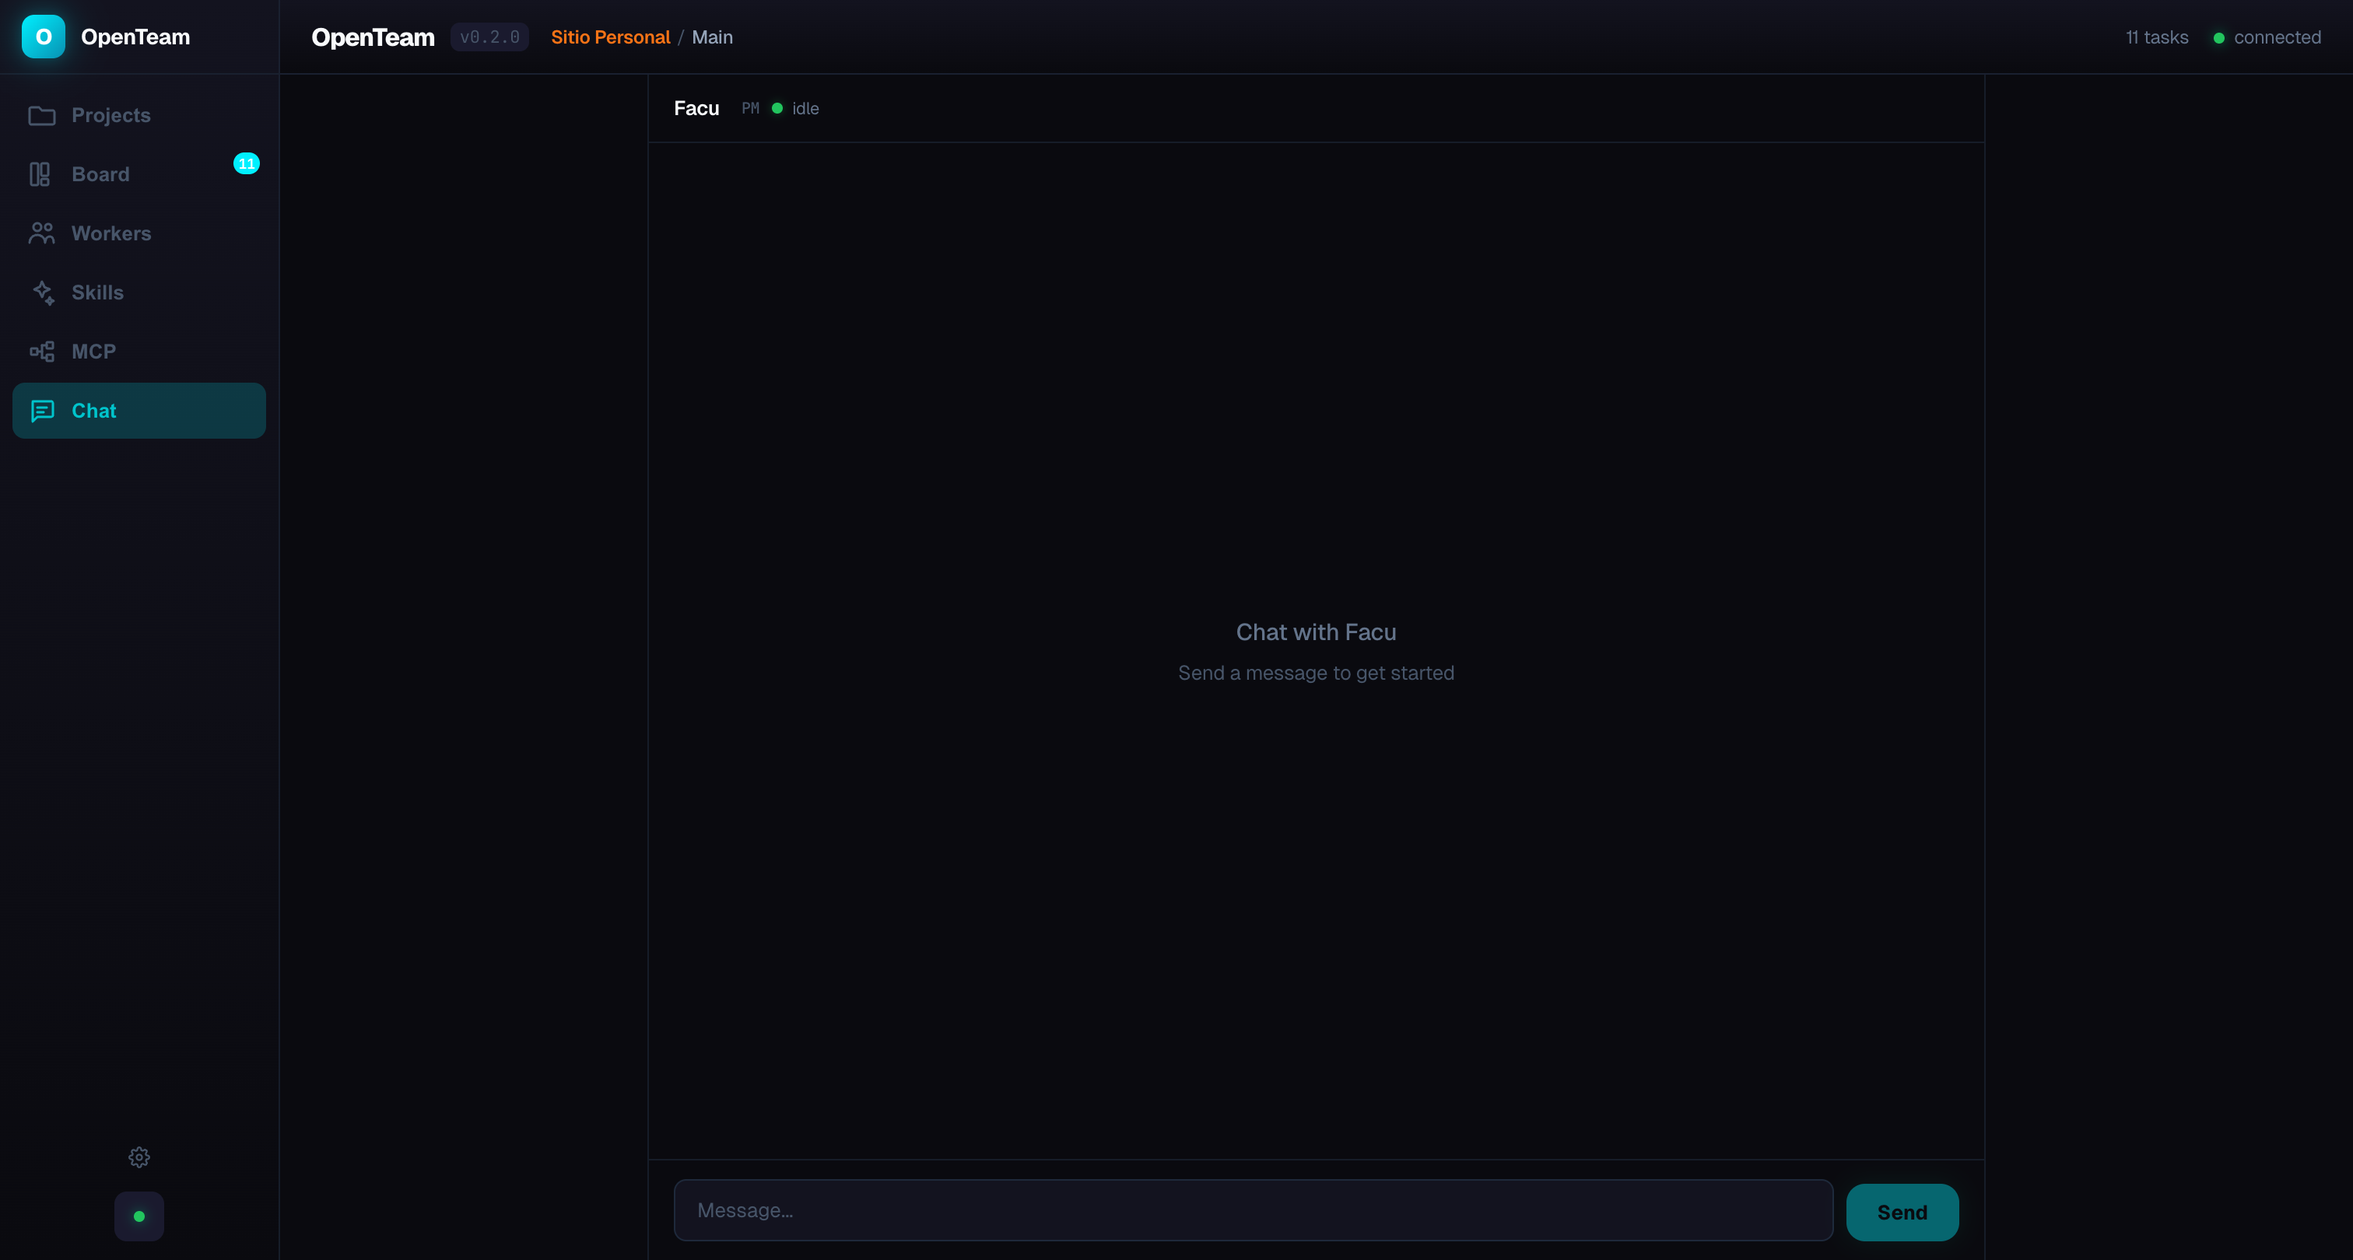
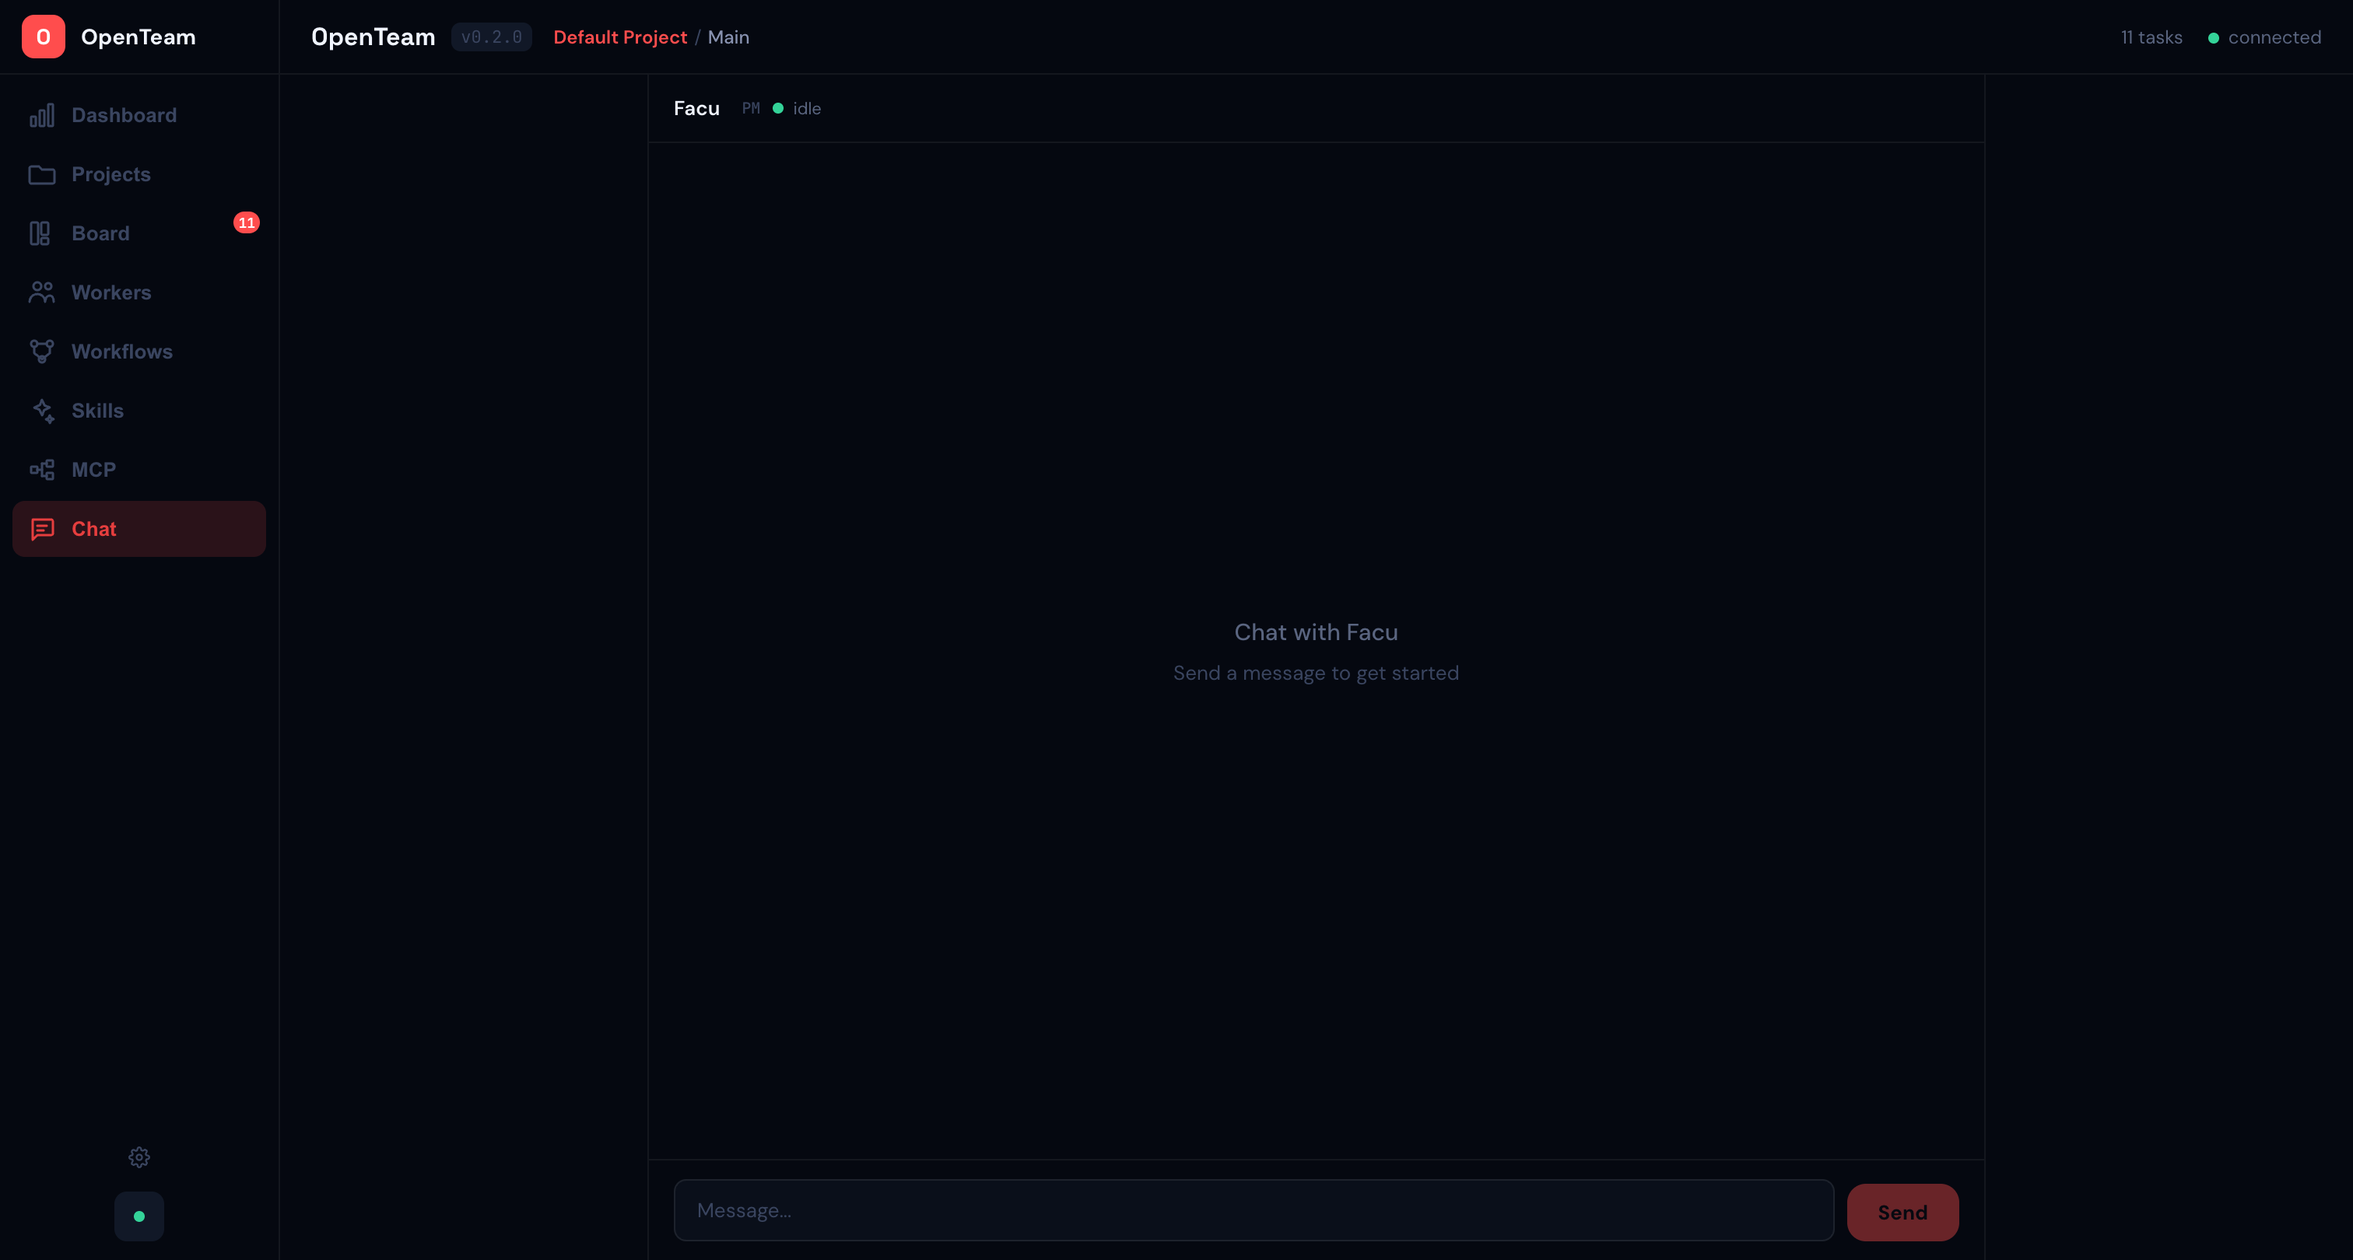
docs: complete README rewrite + new screenshots for v0.2.0
Full documentation covering all features implemented in this session:
dashboard, workflows, validation gates, model tiers, agent memory,
ADRs, context compaction, session checkpoints, skill matrix, health
checker, performance analytics, and MCP quick add.

7 new screenshots: dashboard, board, workers, workflows, skills,
mcp, chat. All with MyClaw-inspired coral-red accent design.

API reference table with 20+ endpoints. Architecture diagram
updated with TierEngine, CompactionEngine, and full core module list.
Configuration tables split into global vs per-workspace.

diff --git a/README.md b/README.md
@@ -14,9 +14,9 @@
   <a href="#features">Features</a> &bull;
   <a href="#architecture">Architecture</a> &bull;
   <a href="#the-team">The Team</a> &bull;
+  <a href="#workflows">Workflows</a> &bull;
   <a href="#configuration">Configuration</a> &bull;
-  <a href="#cli">CLI</a> &bull;
-  <a href="#desktop-app">Desktop App</a>
+  <a href="#cli">CLI</a>
 </p>
 
 ---
@@ -55,13 +55,21 @@ Open **http://localhost:4200** and start chatting with Facu.
 
 ## Features
 
+### Dashboard
+
+Unified view of your team's performance: success rate, total tasks, active workflows, token usage, agent performance table, validation gate health, and system doctor checks — all in one screen.
+
+<p align="center">
+  <img src="screenshots/dashboard.png" alt="Dashboard" width="90%" />
+</p>
+
 ### Project & Workspace Hierarchy
 
-Organize your work as **Projects** (one per client or product) containing multiple **Workspaces** (one per area: API, Frontend, SIEM). Each workspace is fully isolated — its own database, team, skills, MCP servers, and chat history. Switch between workspaces at runtime without restarting the server.
+Organize your work as **Projects** (one per client or product) containing multiple **Workspaces** (one per area: API, Frontend, SIEM). Each workspace is fully isolated — its own database, team, MCP servers, and chat history. Switch between workspaces at runtime without restarting the server.
 
-### Kanban Board with Live Dashboard
+### Kanban Board
 
-Full-width kanban with drag & drop, search, and filters. Tasks update in real-time as workers complete them.
+Full-width kanban with drag & drop, search, filters, and stats bar. Tasks update in real-time as workers complete them. Token tracking per task.
 
 <p align="center">
   <img src="screenshots/board.png" alt="Board" width="90%" />
@@ -69,27 +77,31 @@ Full-width kanban with drag & drop, search, and filters. Tasks update in real-ti
 
 ### AI Agent Team
 
-Build your team from a catalog of 12 specialized roles. Each agent gets a unique avatar (DiceBear), an editable name, and an independent AI provider toggle. Mix Claude and Kimi in the same team for cross-model verification.
+Build your team from a catalog of 13 specialized roles. Each agent gets a unique avatar (DiceBear), an editable name, an independent AI provider toggle, and a **model tier** (Economy/Fast/Standard/Quality/Premium) that controls cost vs quality routing.
 
 <p align="center">
   <img src="screenshots/workers.png" alt="Workers" width="90%" />
 </p>
 
-Double-click any name to edit. Click the avatar to randomize. Toggle between Claude and Kimi per agent with one click. The PM (Facu) is always present — the rest of the team is yours to compose.
+### Workflow Templates
 
-### Skills Marketplace
+5 built-in multi-phase workflows: Bug Fix, Feature Implementation, Quick Refinement, Refactoring, and Security Audit. Each defines phases with roles, exit criteria, and auto-detection from user input. Workflows auto-advance — when a phase task completes, the next phase starts automatically.
 
-Install skill packs from GitHub or create them inline. AI auto-categorizes each install. Assign any combination of skills to any agent — give your designer Tailwind + Figma knowledge, your developer React + Prisma expertise.
+<p align="center">
+  <img src="screenshots/workflows.png" alt="Workflows" width="90%" />
+</p>
+
+### Skills & Marketplace
+
+Install skill packs from GitHub or create them inline. AI auto-categorizes each install. Skills are global (shared across all workspaces). **Skill Matrix** maps capability slots (framework, database, styling, testing) to concrete tech — changing stack means updating one JSON, not agent files.
 
 <p align="center">
   <img src="screenshots/skills.png" alt="Skills" width="90%" />
 </p>
 
-12 built-in skills covering all major roles. Add your own from any public GitHub repository.
-
 ### MCP Integration
 
-Connect your agents to external tools via Model Context Protocol (MCP) — Chrome DevTools for UI testing, databases, APIs, and more. Quick Add lets you paste a GitHub URL or npm package name and it auto-configures. Each workspace has its own MCP configuration.
+Connect your agents to external tools via Model Context Protocol (MCP). Quick Add: paste a GitHub URL or npm package name and it auto-configures. Each workspace has its own MCP configuration.
 
 <p align="center">
   <img src="screenshots/mcp.png" alt="MCP" width="90%" />
@@ -97,7 +109,7 @@ Connect your agents to external tools via Model Context Protocol (MCP) — Chrom
 
 ### Chat with Facu
 
-Natural conversation with your PM in any language. He creates tasks, checks status, manages the workspace context, and coordinates the team.
+Natural conversation with your PM in any language. He creates tasks, manages workflows, checks status, and coordinates the team. Workflow-aware: detects bug fixes, features, refactors from your message and suggests the right workflow.
 
 <p align="center">
   <img src="screenshots/chat.png" alt="Chat" width="90%" />
@@ -105,38 +117,54 @@ Natural conversation with your PM in any language. He creates tasks, checks stat
 
 ### And more...
 
+- **Model Tiers** — Economy/Fast/Standard/Quality/Premium per role, auto-inferred from task complexity
+- **Validation Gates** — 9 configurable quality checks (secret scan, lint/test/build, blast radius, dependency audit, fast review, browser test, regression test, panel review, smoke test)
+- **Agent Memory** — lessons learned, known issues, agent failure DLQ. Workers read lessons before starting
+- **Architecture Decision Records** — ADRs per workspace, injected into worker context
+- **Context Compaction** — structured summaries replace raw output for downstream workers
+- **Session Checkpoints** — workspace state persisted on shutdown, restored on restart
+- **Performance Analytics** — success rate, duration, tokens, per-category breakdown per agent
+- **Token tracking** — input/output tokens per task, global counter on board
 - **Task dependencies & subtasks** with cycle detection
 - **Error handling with automatic retry** (configurable max attempts)
 - **Worker output streaming** in real-time
 - **Knowledge base** with keyword-triggered document injection
-- **Auto-updating WORKSPACE.md** — workers learn from each other
-- **Session persistence** — chat survives server restarts
 - **Drag & drop** kanban with toast notifications
 - **Runtime hot-swap** — switch workspaces without server restart
-- **Graceful shutdown** — SIGTERM/SIGINT stop workers cleanly
-- **Token tracking** — input/output tokens per task, global counter on board
-- **Workspace settings** — configure workDir, git repo, branch, provider per workspace
+- **Graceful shutdown** — SIGTERM/SIGINT persist checkpoints and stop workers
 - **Desktop app** — Electron wrapper (scaffold ready)
 
 ## The Team
 
-| Role | Default Name | What they do |
-|------|-------------|-------------|
-| PM | Facu | Coordinates the team, manages tasks, talks to you |
-| Developer | Lucas | Writes code, implements features, fixes bugs |
-| Architect | - | System design, ADRs, technology evaluation |
-| API Designer | - | Route architecture, endpoint conventions |
-| Data Engineer | - | ETL pipelines, scrapers, data processing |
-| Designer | Sofia | UI/UX, interfaces, components, visual polish |
-| Tester | Max | Tests, validation, quality assurance |
-| Reviewer | Ana | Code review, security, performance |
-| DevOps | - | CI/CD, Docker, deployments |
-| Security | - | Auth, RLS, CSP, vulnerability management |
-| Copywriter | - | UI microcopy, marketing text, docs |
-| SEO | - | Meta tags, structured data, crawlability |
-| Performance | - | Profiling, bundle size, Core Web Vitals |
+| Role | Default Name | Tier | What they do |
+|------|-------------|------|-------------|
+| PM | Facu | Quality | Coordinates the team, manages tasks and workflows |
+| Developer | Lucas | Quality | Writes code, implements features, fixes bugs |
+| Architect | — | Quality | System design, ADRs, technology evaluation |
+| API Designer | — | Standard | Route architecture, endpoint conventions |
+| Data Engineer | — | Standard | ETL pipelines, scrapers, data processing |
+| Designer | Sofia | Quality | UI/UX, interfaces, components, visual polish |
+| Tester | Max | Fast | Tests, validation, quality assurance |
+| Reviewer | Ana | Economy | Code review, security, performance |
+| DevOps | — | Fast | CI/CD, Docker, deployments |
+| Security | — | Quality | Auth, RLS, CSP, vulnerability management |
+| Copywriter | — | Economy | UI microcopy, marketing text, docs |
+| SEO | — | Economy | Meta tags, structured data, crawlability |
+| Performance | — | Standard | Profiling, bundle size, Core Web Vitals |
 
-All names are customizable. Each agent can independently use Claude Code or Kimi Code. New workspaces start with only the PM — you build the team you need.
+Tiers determine provider routing: Economy/Fast use Kimi (cheaper), Standard/Quality/Premium use Claude (better reasoning). All names, tiers, and providers are configurable per workspace.
+
+## Workflows
+
+| Template | Phases | Use When |
+|----------|--------|----------|
+| Bug Fix | Triage → RCA → Fix → Test → Review | "hay un bug", "fix", "broken" |
+| Feature | Brainstorm → Research → Foundation → Integration → Test → Review | "add", "implement", "build" |
+| Quick Refinement | Triage → Implement → Verify | "tweak", "adjust", "polish" |
+| Refactoring | Scope → Test First → Refactor → Verify → Review | "refactor", "rewrite", "clean up" |
+| Security Audit | Scope → Scan → Review → Fix → Verify | "security", "audit", "vulnerability" |
+
+Facu auto-detects the workflow type from your message and validates the team has required roles before starting. Custom templates supported.
 
 ## Architecture
 
@@ -145,18 +173,24 @@ You <-> Facu (PM Chat) <-> MCP Tools <-> TaskStore (SQLite)
                                               |
                                     Orchestrator (polls every 3s)
                                               |
+                              TierEngine → Provider Selection
+                                              |
                                     WorkerRunner (Claude/Kimi CLI)
                                               |
-                                    PTY (pseudo-terminal)
+                                    CompactionEngine → Context
 ```
 
 **Monorepo structure:**
 
 ```
 packages/
-  core/       SQLite, TaskStore, Orchestrator, SkillLoader, McpManager, KnowledgeBase
+  core/       SQLite, TaskStore, Orchestrator, SkillLoader, McpManager,
+              KnowledgeBase, WorkflowEngine, TierEngine, GateEngine,
+              AgentMemory, PerformanceTracker, CompactionEngine,
+              CheckpointManager, DecisionStore, HealthChecker
   web/        Express + WebSocket server, all API routes
-  ui/         React + Vite (Board, Workers, Skills, MCP, Chat, Projects)
+  ui/         React + Vite (Dashboard, Board, Workers, Workflows,
+              Skills, MCP, Chat, Projects)
   cli/        CLI entry point (openteam command)
   desktop/    Electron wrapper (scaffold)
 ```
@@ -169,6 +203,7 @@ packages/
 |------|---------|
 | `skills/` | Role prompts (built-in + user-installed) |
 | `skills/modules/` | Modular skills from marketplace |
+| `skills/skill-matrix.json` | Tech stack slot bindings |
 | `skills/role-skills.json` | Skill-to-role assignments |
 | `marketplace.json` | User-curated skill catalog |
 
@@ -176,39 +211,13 @@ packages/
 
 | File | Purpose |
 |------|---------|
-| `openteam.db` | Tasks, chat history, updates |
+| `openteam.db` | Tasks, chat, workflows, gates, performance, decisions, checkpoints, compactions (SQLite, v15) |
 | `WORKSPACE.md` | Project context for all workers |
 | `project-config.json` | Working directory, repo, branch, provider |
-| `team.json` | Team composition (roles + names + providers) |
+| `team-config.json` | Team composition (roles + names + providers) |
 | `agent-config.json` | Agent names, providers, avatar seeds |
 | `knowledge/` | Docs with `read_when` keyword injection |
 | `mcp-servers.json` | MCP server configurations |
-
-## Skills System
-
-**Roles** are base agent prompts. **Modules** are reusable knowledge blocks.
-
-```bash
-# Install from GitHub
-openteam skills add https://github.com/user/skill-repo
-
-# Or from the UI: Skills Marketplace > "+ From GitHub"
-```
-
-### Knowledge Base
-
-Create `.md` files in the workspace's `knowledge/` directory:
-
-```markdown
----
-read_when: auth, login, session, jwt
----
-
-Our auth uses NextAuth.js v5 with JWT strategy.
-Always use the `auth()` helper, never read cookies directly.
-```
-
-When a task matches any keyword, the doc is automatically injected into the worker's prompt.
 
 ## CLI
 
@@ -227,35 +236,39 @@ openteam context set <file>       # Set project context
 openteam status                   # System status
 ```
 
-The CLI automatically resolves the active workspace DB — modern project hierarchy, legacy workspace path, or global fallback.
+## API Reference
+
+| Endpoint | Purpose |
+|----------|---------|
+| `GET /api/health` | Server health |
+| `GET /api/doctor` | System health checks (8 checks) |
+| `GET /api/dashboard/*` | Dashboard aggregations |
+| `GET/POST /api/tasks` | Task CRUD |
+| `DELETE /api/tasks/:id` | Delete task |
+| `POST /api/tasks/:id/retry` | Retry failed task |
+| `GET/POST /api/projects` | Project CRUD |
+| `GET/POST /api/team/members` | Team management |
+| `GET/PUT /api/tiers/:roleId` | Model tier configuration |
+| `GET/POST /api/workflows/templates` | Workflow templates |
+| `GET/POST /api/workflows/instances` | Workflow instances |
+| `GET/POST /api/decisions` | Architecture Decision Records |
+| `GET/POST /api/memory/lessons` | Lessons learned |
+| `GET/POST /api/memory/issues` | Known issues |
+| `GET /api/memory/failures` | Agent failure DLQ |
+| `GET /api/performance` | Agent performance stats |
+| `GET /api/gates/definitions` | Validation gate definitions |
+| `GET /api/skill-matrix` | Skill matrix slots |
+| `GET/POST /api/checkpoints` | Session checkpoints |
+| `GET/PUT /api/mcp-servers` | MCP server management |
 
 ## Multi-Provider Support
 
-OpenTeam supports both **Claude Code** and **Kimi Code** as AI providers. You can:
+OpenTeam supports both **Claude Code** and **Kimi Code** as AI providers:
 
-- Set a default provider per project (Settings)
-- Override per agent (Workers panel)
+- **Tier-based routing**: Economy/Fast tasks → Kimi (cheaper), Quality/Premium → Claude (better)
+- Set a default provider per workspace
+- Override per agent in Workers panel
 - Mix providers for cross-model verification
-
-This means Lucas can write code with Claude while Ana reviews it with Kimi — diversity of perspective built into your workflow.
-
-## Desktop App
-
-An Electron-based desktop app is included as a scaffold in `packages/desktop/`. It embeds the web server and opens a native window.
-
-```bash
-cd packages/desktop
-pnpm install
-pnpm approve-builds   # Allow Electron native builds
-pnpm rebuild           # Rebuild native modules for Electron
-pnpm dev               # Launch the desktop app
-```
-
-Package for distribution:
-
-```bash
-pnpm dist              # Build .dmg (macOS), .exe (Windows), .AppImage (Linux)
-```
 
 ## Deployment
 
@@ -274,10 +287,12 @@ cd openteam && pnpm install && pnpm build && pnpm start
 ## Tech Stack
 
 - **Runtime:** Node.js 22+ / TypeScript
-- **Database:** SQLite (better-sqlite3, WAL mode)
+- **Database:** SQLite (better-sqlite3, WAL mode, schema v15)
 - **Server:** Express 5 + WebSocket (ws)
 - **UI:** React 19 + Vite 6
-- **AI:** Claude Code CLI / Kimi Code CLI via PTY
+- **Icons:** Heroicons (outline, 24px)
+- **Fonts:** Space Grotesk (display) + DM Sans (body) + JetBrains Mono (code)
+- **AI:** Claude Code CLI / Kimi Code CLI
 - **Desktop:** Electron 35
 - **Build:** tsup + Vite, pnpm workspaces
 - **Tests:** Vitest (81 tests across 9 files)
